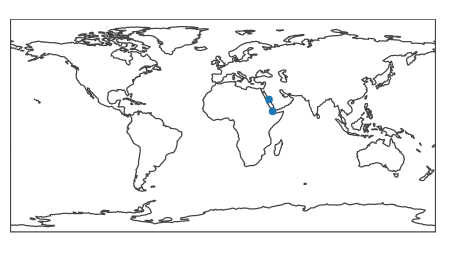
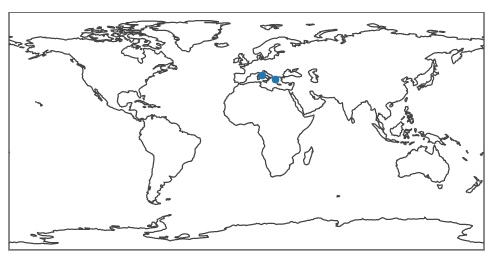
Position geo-cordinates on the scatter map

Changed region(s): [[0.0, 0.0307, 0.9912, 0.9808], [0.1549, 0.2452, 0.1858, 0.3372], [0.0619, 0.3678, 0.0929, 0.3985]]

diff --git a/AnyChartCheatSheat.md b/AnyChartCheatSheat.md
@@ -17,8 +17,8 @@
 ]
 ```
 
-![BubbleChartProperties](/assets/cheatsheet/BubbleChart.png)
 ### Bubble Charts
+![BubbleChartProperties](/assets/cheatsheet/BubbleChart.png)
 ``` json
 [ {
   "x": [ 1, 2, 3 ],
@@ -38,8 +38,8 @@
   "x": [ 1, 2, 3 ],
   "y": [ 1, 2, 3 ],
   "text": [ "A", "B", "C" ],
-  "textposition": "top center",
-  "mode": "marker+text"
+  "textposition": "left center",
+  "mode": "markers+text"
 } ]
 ```
 
@@ -158,9 +158,9 @@
 Data
 ``` json
 [ {
-  "locations": ["AZ", "CA", "VT"],
+  "locations": [ "AZ", "CA", "VT" ],
   "locationmode": "USA-states",
-  "z": [10, 20, 40],
+  "z": [ 10, 20, 40 ],
   "type": "scattergeo"
 } ]
 ```
@@ -177,8 +177,8 @@ Layout
 ![ScatterMapProperties](/assets/cheatsheet/ScatterMap.png)
 ``` json
 [ {
-  "lon": [ 42, 39 ],
-  "lat": [ 12, 22 ],
+  "lon": [ 12, 22 ],
+  "lat": [ 42, 39 ],
   "type": "scattergeo",
   "text": [ "Rome", "Greece" ],
   "mode": "marker"
@@ -191,7 +191,7 @@ Layout
 ``` json
 [ {
   "colorscale": "Viridis",
-  "z": [ [3, 5, 7, 9], [ 21, 13, 8, 5 ] ],
+  "z": [ [ 3, 5, 7, 9 ], [ 21, 13, 8, 5 ] ],
   "type": "surface"
 } ]
 ```
@@ -222,7 +222,7 @@ Layout
 
 ## Other Charts
 
-### Contour chart
+### Contour Chart
 ![ContourProperties](/assets/cheatsheet/Contour.png)
 ``` json
 [ {
@@ -231,18 +231,18 @@ Layout
 } ]
 ```
 
-### Time series
+### Time Series
 ![TimeSeriesProperties](/assets/cheatsheet/TimeSeries.png)
 ``` json
 [ {
   "type": "scatter",
   "mode": "lines",
-  "x": ["2018-09-04", "2018-10-04", "2018-11-04", "2018-12-04", "2018-12-04"],
+  "x": [ "2018-09-04", "2018-10-04", "2018-11-04", "2018-12-04", "2018-12-04" ],
   "y": [ 5, 2, 7, 10 ]
 } ]
 ```
 
-### Group by chart
+### Group By Chart
 ![GroupByChartProperties](/assets/cheatsheet/GroupByChart.png)
 ``` json
 [ {
@@ -253,7 +253,7 @@ Layout
 } ]
 ```
 
-### Symmetric error bar
+### Symmetric Error Bar
 ![ErrorBarProperties](/assets/cheatsheet/ErrorBar.png)
 ``` json
 [ {
